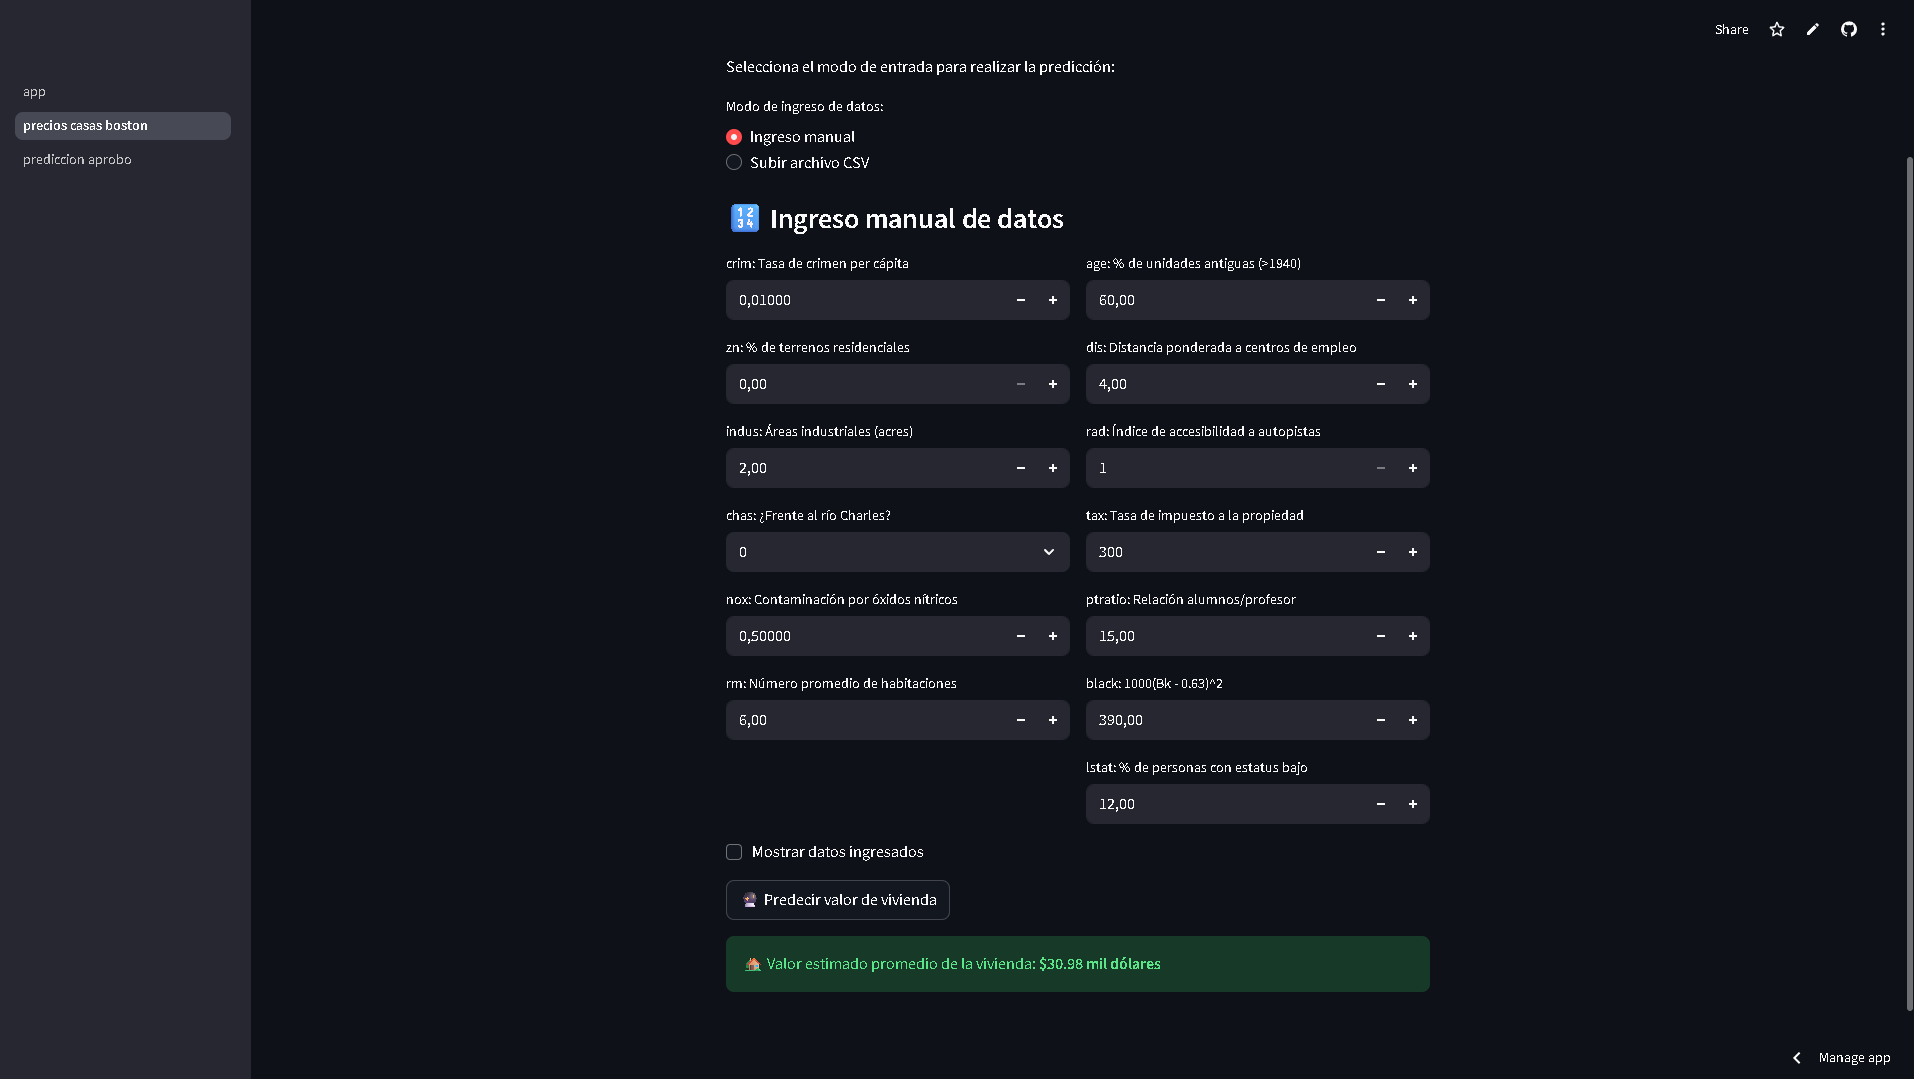
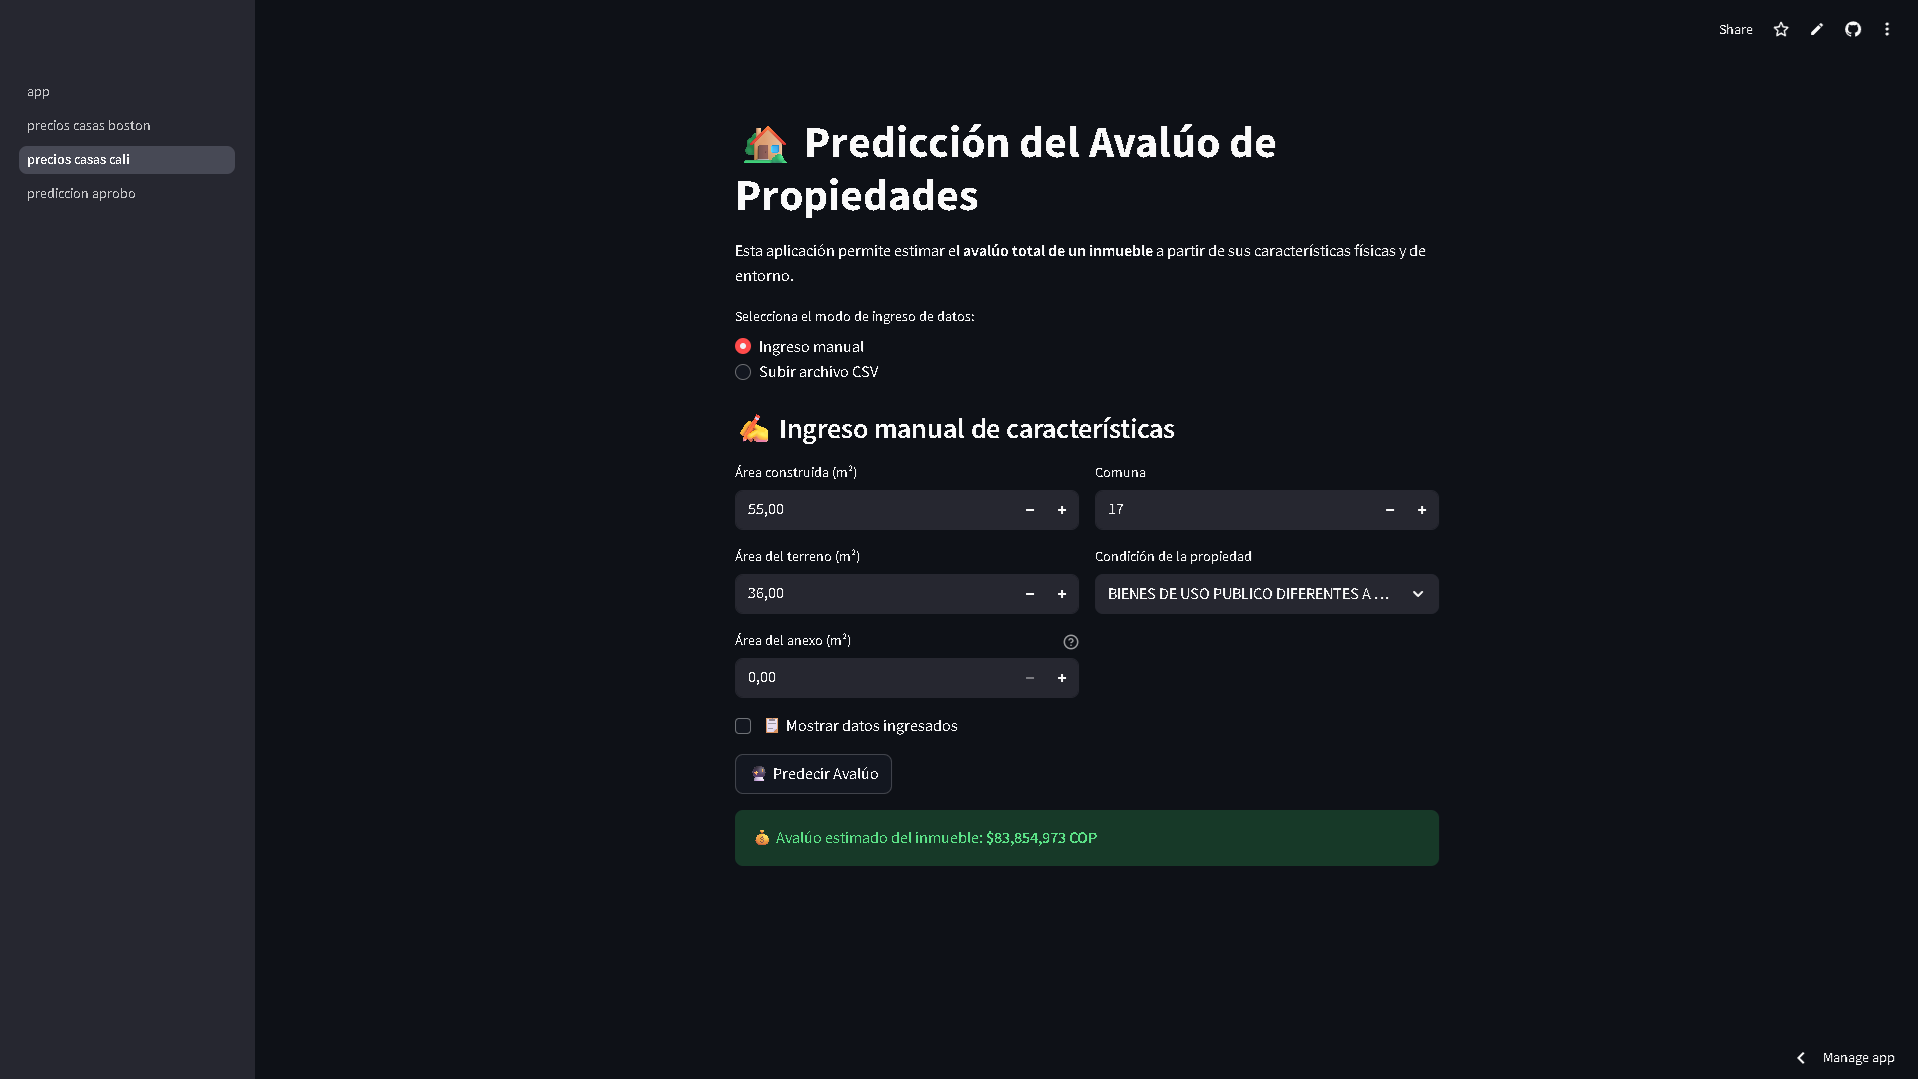
Correcciones en los readme

diff --git a/taller/precio_casas_cali/precios_casas_cali.md b/taller/precio_casas_cali/precios_casas_cali.md
@@ -323,7 +323,7 @@ El modelo será implementado en una aplicación interactiva desarrollada con **S
 - Ingresar manualmente los datos de un predio para obtener una predicción instantánea.
 - Cargar un archivo `.csv` con múltiples registros para realizar predicciones masivas.
 
-> [Haz clic aquí para abrir la aplicación](https://machine-learning-dashboard.streamlit.app/precios_casas_cali) _(URL de ejemplo, pendiente de despliegue real)_
+> [Haz clic aquí para abrir la aplicación](https://machine-learning-dashboard.streamlit.app/precios_casas_cali)
 
 ---
 
